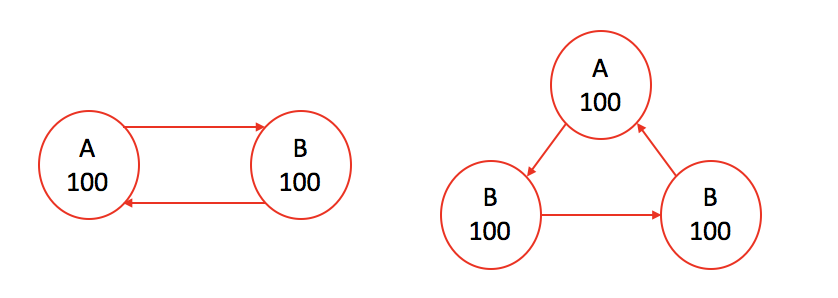
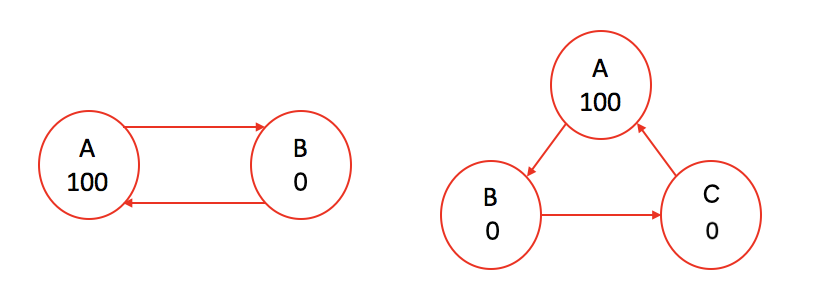
add program and README.md

diff --git a/week4/week4_hw.py b/week4/week4_hw.py
@@ -1,7 +1,60 @@
+"""
+Implement the pagerank algorithm.
+"""
 
-class PageRank:
-    def __init__(self):
-        pass
 
-    def graph(self, file):
-        pass
+# Create graph structure for the input file
+def create_graph(input_file):
+    graph = {}
+    f = open(input_file, "r")
+    for line in f.readlines():
+        if line.strip().isdigit():
+            continue
+        tmp = line.strip().split()
+        if len(tmp) == 1:  # node
+            graph[tmp[0]] = []
+        elif len(tmp) == 2:  # edges
+            if tmp[0] in graph:
+                graph[tmp[0]] += tmp[1]
+        else:
+            print "error"
+    return graph
+
+
+# Apply pagerank algorithm
+def pagerank(input_file, score):
+    model = create_graph(input_file)
+    current_score = {}
+    previous_score = {}
+    # assign initial_score
+    for vertex in model:
+        previous_score[vertex] = 0
+        current_score[vertex] = score
+    # if difference is very small, we can say the model is converge and finish the iteration process
+    while module_diff(previous_score, current_score) > 0.01:  # iteration process
+        previous_score = current_score
+        current_score = {x: 0 for x in model}
+        for vertex in current_score:
+            factor = 1.0 / len(model[vertex])
+            for neighbor in model[vertex]:
+                current_score[neighbor] += factor * previous_score[vertex]
+    return current_score
+
+
+# for checking difference of the previous score and the current score
+def module_diff(previous, current):
+    difference = 0
+    for i in current:
+        difference += (current[i] - previous[i]) ** 2
+    return difference ** 0.5
+
+
+def main():
+    print "Results after applied the pagerank algorithm >>"
+    print "small data: ", pagerank("sample_inputs/small_data.txt", 100)
+    print "medium data: ", pagerank("sample_inputs/medium_data.txt", 100)
+    print "large data: ", pagerank("sample_inputs/large_data.txt", 100)
+
+
+if __name__ == "__main__":
+    main()

diff --git a/week4/README.md b/week4/README.md
@@ -12,23 +12,31 @@
 
 ***
 
+### 1. [week4_hw.py](https://github.com/Stephanie1125/googlestep/tree/master/week4/week4_hw.py)
 
+This program implement the pagerank algorithm. 
 
+Here is the results after apply the pagerank algorithm for the sample inputs:
 
+**small_data.txt:**
 
+{'A': 107.6904296875, 'C': 107.6934814453125, 'B': 107.6934814453125, 'E': 107.6934814453125, 'D': 107.6904296875, 'G': 107.6934814453125, 'F': 53.84521484375}
 
+**medium_data.txt:**
 
+{'A': 154.74673651634293, 'C': 71.02600282687864, 'B': 168.1745165891389, 'E': 227.08369351519087, 'D': 147.98537865099865, 'G': 113.87098039721613, 'F': 136.15754968250545, 'I': 112.02612016726884, 'H': 34.68302376483891, 'K': 149.79394048317238, 'J': 138.7283606138534, 'M': 74.61994704609143, 'L': 79.98298815955457, 'O': 159.96503075089967, 'N': 159.63378439798112, 'Q': 39.99009045083393, 'P': 90.58747558393617, 'S': 140.85283191429613, 'R': 39.9944740000995, 'U': 0, 'T': 60.09707420950684, 'W': 1.862645149230957e-07, 'V': 9.313225746154785e-08}
 
+**large_data.txt:** 
 
-
+This is too long to put in this README.md file, please check the result output from [week4_hw.py](https://github.com/Stephanie1125/googlestep/tree/master/week4/week4_hw.py).
 
 ***
 
-## 宿題その2（1,2 行で十分です）
+## 宿題その2
 
 ***
 
-**このページランクアルゴリズムは、繰り返しを無限に行えば必ず収束しますか？もし収束しないなら、どういう解決策が考えられますか？**
+**このページランクアルゴリズムは、繰り返しを無限に行えば必ず収束しますか？もし収束しないなら、どういう解決策が考えられますか？（1,2 行で十分です）**
 
 **Does the pagerank algorithm I described converge always? If not, what can we do to make sure it converge?**
 
@@ -36,17 +44,17 @@
 
 The pagerank algorithm will not converge always in all cases and the following is some examples cases that won't converge no matter how long the process of PageRank algorithm is running.![CaseNotConvergeforPageRank](CaseNotConvergeforPageRank.png)
 
-We can tell that the cases are all form infinite loops or cycles. As a result, to make sure the model we apply converge, we should avoid infinite loops and cycles.
+We can tell that the cases are all form infinite loops or cycles. As a result, to make sure the model we apply converge, we should avoid infinite loops and cycles or we should assign the same values to every nodes. The upper example will converge if we assign 100 to all nodes.
 
 ***
 
-**実際にこのページランクアルゴリズムを使うとして、繰り返しはどのぐらいで止めるべきでしょうか？ （実用上はもちろん無限に繰り返すということはできないので、どこで止めるかという判断が必要になります）**
+**実際にこのページランクアルゴリズムを使うとして、繰り返しはどのぐらいで止めるべきでしょうか？ （実用上はもちろん無限に繰り返すということはできないので、どこで止めるかという判断が必要になります）（1,2 行で十分です）**
 
 **When you use this algorithm in practice, you need to decide when to finish the iteration. How do you decide it?**
 
 ***
 
-We finish the iteration process when the model is converge, which means that all nodes will have the same scores as its previous scores. As a result, we can compare scores for each process with its previous result, if two processes scores for every nodes are the same, it means the model is converge and we can finish the iteration process.
+We finish the iteration process when the model is converge, which means that all nodes will have the same/similar scores as its previous scores. As a result, we can compare scores for each process with its previous result, if two processes scores for every nodes are the same/similar, it means the model is converge and we can finish the iteration process.
 
 ***
 
